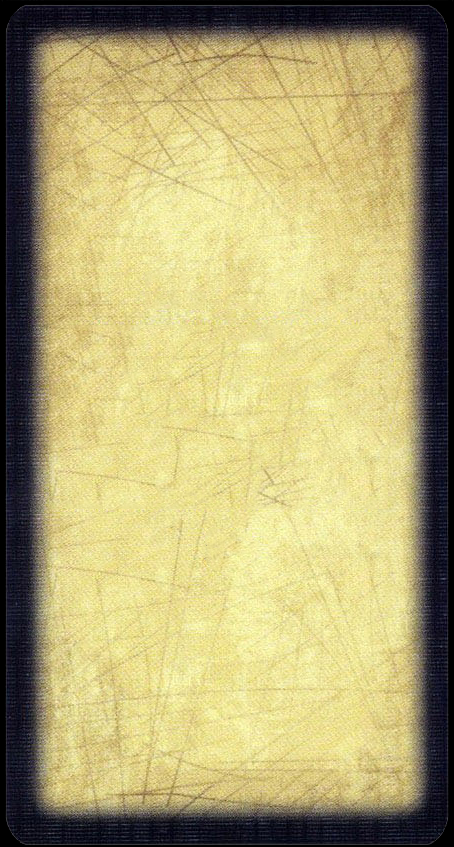
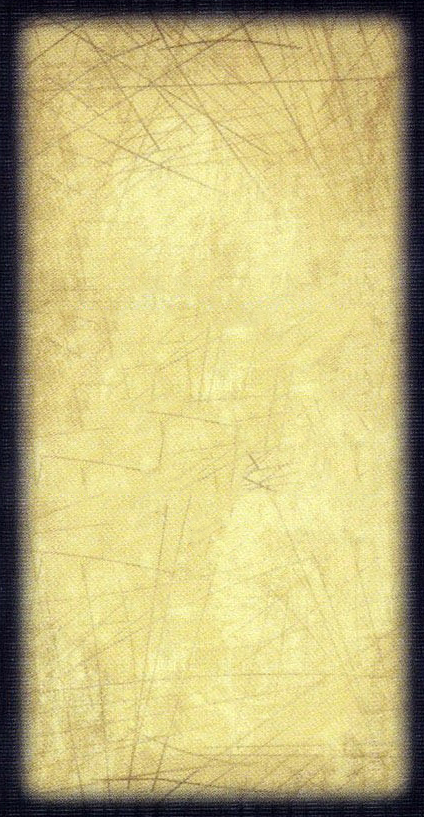
Update card backgrounds.

diff --git a/src/components/bhh/card/card.vue b/src/components/bhh/card/card.vue
@@ -1,7 +1,7 @@
 <template>
   <div>
-    <b-button size="sm" variant="outline-secondary" class="mb-1" @click="download">Download</b-button>
-    <div ref="card" class="Card position-relative rounded bg-milk-light">
+    <b-badge variant="none" class="mb-1 text-secondary border border-secondary" href="#" @click="download">Download</b-badge>
+    <div ref="card" class="Card position-relative bg-milk-light">
       <div class="CardBody position-absolute w-100 h-100">
         <h3 class="text-center mb-0"><slot name="zh-title">???</slot></h3>
         <h6 class="text-center text-milk-dark text-uppercase"><slot name="en-title">???</slot></h6>
@@ -83,37 +83,37 @@ export default {
 
 .Card {
 
-  font-size: (11 / 12) * 1rem !important;
+  font-size: (11.5 / 12) * 1rem !important;
 
-  width:      (215 / 12) * 1rem;
-  min-width:  (215 / 12) * 1rem;
-  height:     (400 / 12) * 1rem;
-  min-height: (400 / 12) * 1rem;
+  width:      (424 / 24) * 1rem;
+  min-width:  (424 / 24) * 1rem;
+  height:     (817 / 24) * 1rem;
+  min-height: (817 / 24) * 1rem;
 
   background-size: 100% 100%;
   background-repeat: no-repeat;
 }
 
 .CardBody {
-  padding: 2.5rem 2rem 2rem;
+  padding: 2rem 1.5rem 1.5rem;
   top: 0;
 
   background: rgba(255, 255, 255, 0.2);
 }
 
 .CardFooter {
-  padding: 2rem;
+  padding: 1.5rem;
   bottom: 0;
 }
 
 .CardType {
-  top: 1.75rem;
-  left: 1.75rem;
+  top: 1.25rem;
+  left: 1.25rem;
 }
 
 .CardSeries {
-  top: 1.75rem;
-  right: 1.75rem;
+  top: 1.25rem;
+  right: 1.25rem;
   height: 1rem;
   width:  1rem;
 }
